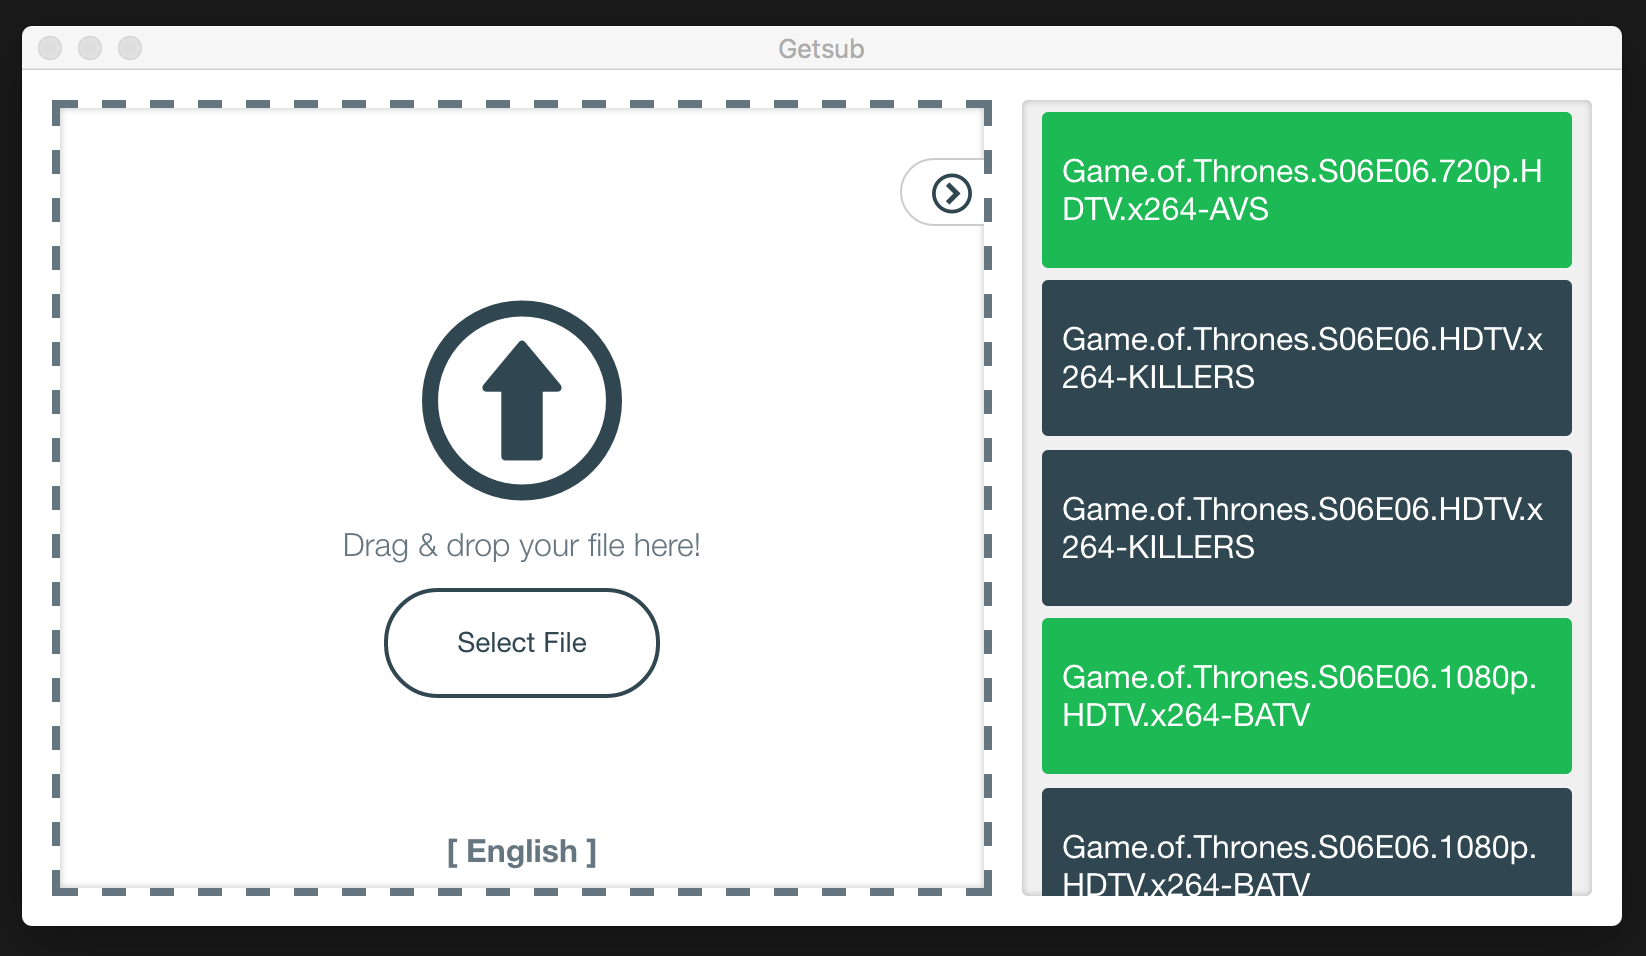
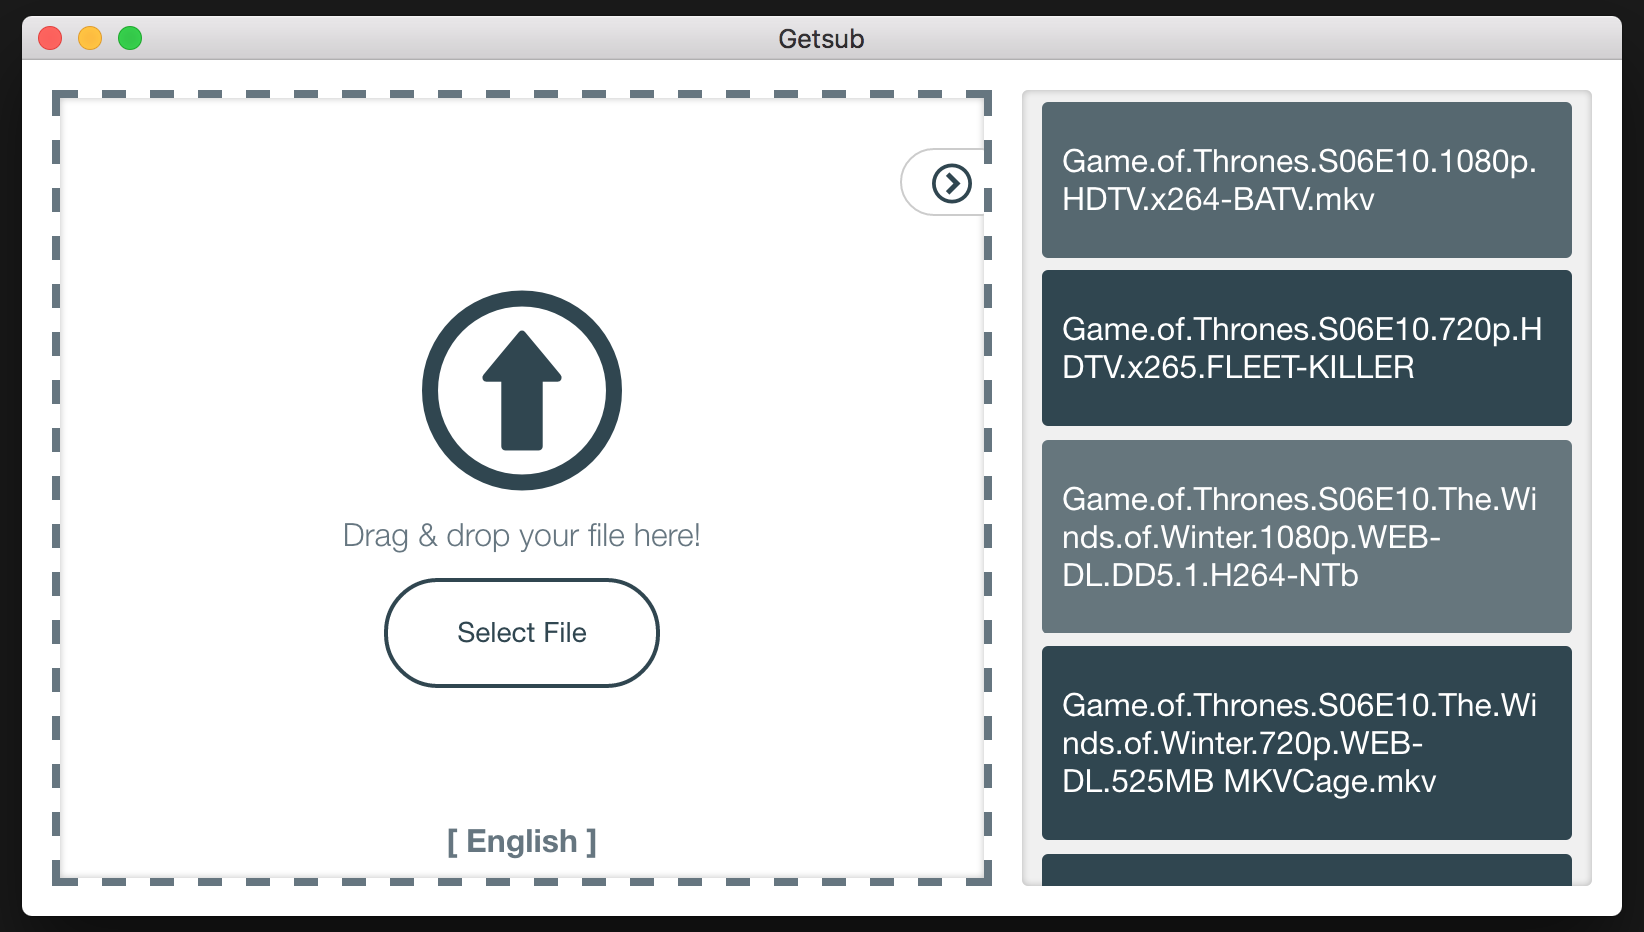
downloading subtitles loader

diff --git a/renderer/components/panel/index.jsx b/renderer/components/panel/index.jsx
@@ -6,11 +6,13 @@ export default class Panel extends React.Component {
 
   download = (subtitle, item, event) => {
     event.stopPropagation()
-    this.props.downloadSubtitle({
-      ...subtitle,
-      filePath: item.filePath,
-      originName: item.originName
-    })
+    if (!subtitle.downloaded) {
+      this.props.downloadSubtitle({
+        ...subtitle,
+        filePath: item.filePath,
+        originName: item.originName
+      })
+    }
   }
 
   render () {
@@ -24,12 +26,25 @@ export default class Panel extends React.Component {
                 <div key={listIndex} styleName="block">
                   {
                     item.subtitles.map((subtitle, itemIndex) => {
+                      let loaderClass = subtitle.isDownloading
+                        ? 'loader'
+                        : 'loader-hidden'
+
+                      let itemClass = subtitle.downloaded
+                        ? 'downloaded'
+                        : 'item'
+
+                      itemClass = subtitle.isDownloading
+                        ? 'downloading'
+                        : itemClass
+
                       return (
                         <div
-                          styleName={subtitle.downloaded ? 'downloaded' : 'item'}
+                          styleName={itemClass}
                           onClick={this.download.bind(this, subtitle, item)}
                           key={itemIndex}>
-                          {subtitle.fileName}
+                          <div styleName="title">{subtitle.fileName}</div>
+                          <div styleName={loaderClass}/>
                         </div>
                       )
                     })
@@ -50,6 +65,5 @@ Panel.propTypes = {
   cursor: React.PropTypes.object.isRequired,
   isOpen: React.PropTypes.bool.isRequired,
   isSearching: React.PropTypes.bool.isRequired,
-  isDownloading: React.PropTypes.bool.isRequired,
   list: React.PropTypes.array.isRequired
 }

diff --git a/renderer/reducers/subtitle.js b/renderer/reducers/subtitle.js
@@ -4,26 +4,41 @@ import {SEARCH_SUBTITLES, DOWNLOAD_SUBTITLE} from 'actions/subtitle'
 const defaultState = {
   list: [],
   cursor: {},
-  isSearching: false,
-  isDownloading: false
+  isSearching: false
+}
+
+const mutateList = (list, id, changes) => {
+  return list.map((arr) => {
+    const subtitles = arr.subtitles.map((subtitle) => {
+      return subtitle.id === id ? {...subtitle, ...changes} : subtitle
+    })
+    return {...arr, subtitles}
+  })
 }
 
 export default function (state = defaultState, action) {
+
+  var list
+
   switch (action.type) {
     case flow(SEARCH_SUBTITLES, 'REQUEST'):
       return {...state, isSearching: true}
 
+    case flow(DOWNLOAD_SUBTITLE, 'REQUEST'):
+      list = mutateList(state.list, action.params.id, {isDownloading: true})
+      return {...state, list}
+
     case flow(SEARCH_SUBTITLES, 'FAILURE'):
       return {...state, isSearching: false}
 
+    case flow(DOWNLOAD_SUBTITLE, 'FAILURE'):
+      list = mutateList(state.list, action.result.id, {isDownloading: false})
+      return {...state, list}
+
     case flow(DOWNLOAD_SUBTITLE, 'SUCCESS'):
-      const list = state.list.map((arr) => {
-        const subtitles = arr.subtitles.map((subtitle) => {
-          return subtitle.id === action.result.id
-            ? {...subtitle, downloaded: true}
-            : subtitle
-        })
-        return {...arr, subtitles}
+      list = mutateList(state.list, action.result.id, {
+        downloaded: true,
+        isDownloading: false
       })
       return {...state, list}
 

diff --git a/renderer/components/panel/style.css b/renderer/components/panel/style.css
@@ -28,8 +28,9 @@
 }
 
 .item {
+  position: relative;
   color: #fff;
-  background-color: #304650;
+  background-color: rgb(48, 70, 80);
   font-size: 16px;
   line-height: 1.2;
   margin: 6.5px 10px;
@@ -42,11 +43,46 @@
   transition: background-color .2s;
 }
 
+.title {
+  position: relative;
+  z-index: 2;
+}
+
 .downloaded {
   composes: item;
-  background-color: #1DB954;
+  background-color: rgba(48, 70, 80, .8);
+}
+
+.downloading {
+  composes: item;
 }
 
 .item:not(.downloaded):hover { background-color: #283940; }
 .downloaded:hover { opacity: .9 }
 .item:first-child { margin-top: 0; }
+
+@keyframes loader {
+  0% { width: 0px; }
+  50% { width: 100% }
+  100% { width: 0px; }
+}
+
+.loader {
+  position: absolute;
+  height: 100%;
+  top: 0;
+  left: 0;
+  right: 0;
+  z-index: 1;
+  background-color: rgba(40, 57, 64, .5);
+  transition: background-color .3s;
+  animation: loader 1s ease-in-out infinite;
+}
+
+.downloading:hover .loader {
+  background-color: rgb(35, 48, 53);
+}
+
+.loader-hidden {
+  display: none;
+}

diff --git a/renderer/containers/home/index.jsx b/renderer/containers/home/index.jsx
@@ -28,14 +28,12 @@ export default class Home extends React.Component {
           isOpen={this.props.isPanelOpen}
           togglePanel={panelActions.togglePanel}
           isSearching={this.props.subtitles.isSearching}
-          isDownloading={this.props.subtitles.isDownloading}
           lang={this.props.lang}/>
         <Panel
           isOpen={this.props.isPanelOpen}
           list={this.props.subtitles.list}
           cursor={this.props.subtitles.cursor}
           isSearching={this.props.subtitles.isSearching}
-          isDownloading={this.props.subtitles.isDownloading}
           downloadSubtitle={subtitleActions.downloadSubtitle}/>
       </div>
     )

diff --git a/renderer/actions/subtitle.js b/renderer/actions/subtitle.js
@@ -36,15 +36,15 @@ const searchSubtitles = (files) => {
 const downloadSubtitle = (subtitle) => {
   return async function (dispatch, getState) {
     try {
-      dispatch(asyncRequest(DOWNLOAD_SUBTITLE))
-
       const {id, downloadLink} = subtitle
       const savingPath = getState().settings.path || subtitle.filePath
+
+      dispatch(asyncRequest(DOWNLOAD_SUBTITLE, {id}))
 
       await ipc.downloadSubtitle(subtitle, savingPath)
       dispatch(asyncSuccess(DOWNLOAD_SUBTITLE, {id}))
     } catch (err) {
-      dispatch(asyncFailure(DOWNLOAD_SUBTITLE, err))
+      dispatch(asyncFailure(DOWNLOAD_SUBTITLE, {id}))
     }
   }
 }

diff --git a/renderer/utils/async.js b/renderer/utils/async.js
@@ -32,14 +32,14 @@ export function flow (action, type) {
   }
 }
 
-export function asyncRequest (action) {
-  return {type: flow(action, REQUEST)}
+export function asyncRequest (action, {...params}) {
+  return {type: flow(action, REQUEST), params}
 }
 
-export function asyncSuccess (action, result) {
+export function asyncSuccess (action, {...result}) {
   return {type: flow(action, SUCCESS), result}
 }
 
-export function asyncFailure (action, error) {
+export function asyncFailure (action, {...error}) {
   return {type: flow(action, FAILURE), error}
 }

diff --git a/renderer/components/dragging-zone/index.jsx b/renderer/components/dragging-zone/index.jsx
@@ -68,7 +68,5 @@ export default class DraggingZone extends React.Component {
 DraggingZone.propTypes = {
   searchSubtitles: React.PropTypes.func.isRequired,
   togglePanel: React.PropTypes.func.isRequired,
-  isSearching: React.PropTypes.bool.isRequired,
-  isDownloading: React.PropTypes.bool.isRequired,
   lang: React.PropTypes.string.isRequired
 }

diff --git a/renderer/components/loader/index.jsx b/renderer/components/loader/index.jsx
@@ -4,7 +4,7 @@ import style from './style.css'
 export default class Loader extends React.Component {
 
   render () {
-    let loaderClass = this.props.isSearching ? 'loader' : 'loader-hidden'
+    const loaderClass = this.props.isSearching ? 'loader' : 'loader-hidden'
     return (<div id="loader" styleName={loaderClass}></div>)
   }
 
